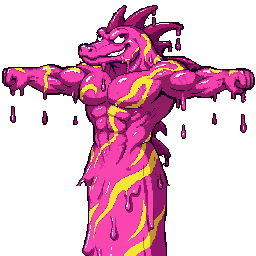
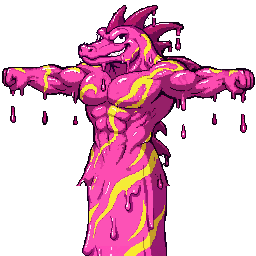
ワニの目線（上・右下）: 全コマ同じ目にそろえ、色を元の呼吸に合わせ、黒目のハイライトを消す
上：breathe_up_0 の目、右下：wani_dr5_0c の目を、元の呼吸の色に合わせて breathe_0..7 の全コマに同じ位置で入れた。目の周り以外は元の絵と同一。

Claude-Session: https://claude.ai/code/session_016eaBtiKgeRRzsuMxnazApp

diff --git a/tools/eye_fix.py b/tools/eye_fix.py
@@ -1,0 +1,28 @@
+# 目線差し替え：生成した1枚の目（白目・黒目）を元の色に合わせ、黒目の中のハイライトを消して、breathe_0..7 の全コマに同じ目を入れる。
+# 使い方: python3 tools/eye_fix.py 目の元にする絵.png 出力の頭（例 assets/cru2/breathe_up）
+import numpy as np, sys
+from PIL import Image
+from scipy import ndimage
+src, outpre = sys.argv[1], sys.argv[2]
+X0,X1,Y0,Y1=106,132,29,48
+base=np.array(Image.open('assets/cru2/breathe_0.png').convert('RGBA'))
+ed=np.array(Image.open(src).convert('RGB')).astype(int)
+bb=base[Y0:Y1,X0:X1,:3].astype(int); eb=ed[Y0:Y1,X0:X1]; op=base[Y0:Y1,X0:X1,3]>0
+pal=np.unique(bb[op].reshape(-1,3),axis=0)
+d=((eb[:,:,None,:]-pal[None,None])**2).sum(3); lock=pal[d.argmin(2)]
+PUP=np.array([24,2,34])
+eyeish=lambda c:(c.min(2)>170)|(c.sum(2)<150)
+near=ndimage.binary_dilation(eyeish(lock)&(lock.min(2)>170)|eyeish(bb)&(bb.min(2)>170),iterations=4)
+dark=lock.sum(2)<150; light=lock.min(2)>170
+lab,n=ndimage.label(light)
+for k in range(1,n+1):
+  comp=lab==k
+  if comp.sum()<=3:
+    ring=ndimage.binary_dilation(comp)&~comp
+    if dark[ring].mean()>0.7: lock[comp]=PUP; print('highlight removed',comp.sum())
+m=(np.abs(lock-bb).sum(2)>40)&near&op
+print(src,'changed px',m.sum())
+for i in range(8):
+  o=np.array(Image.open(f'assets/cru2/breathe_{i}.png').convert('RGBA'))
+  blk=o[Y0:Y1,X0:X1]; blk[m,:3]=lock[m]
+  Image.fromarray(o).save(f'{outpre}_{i}.png')
